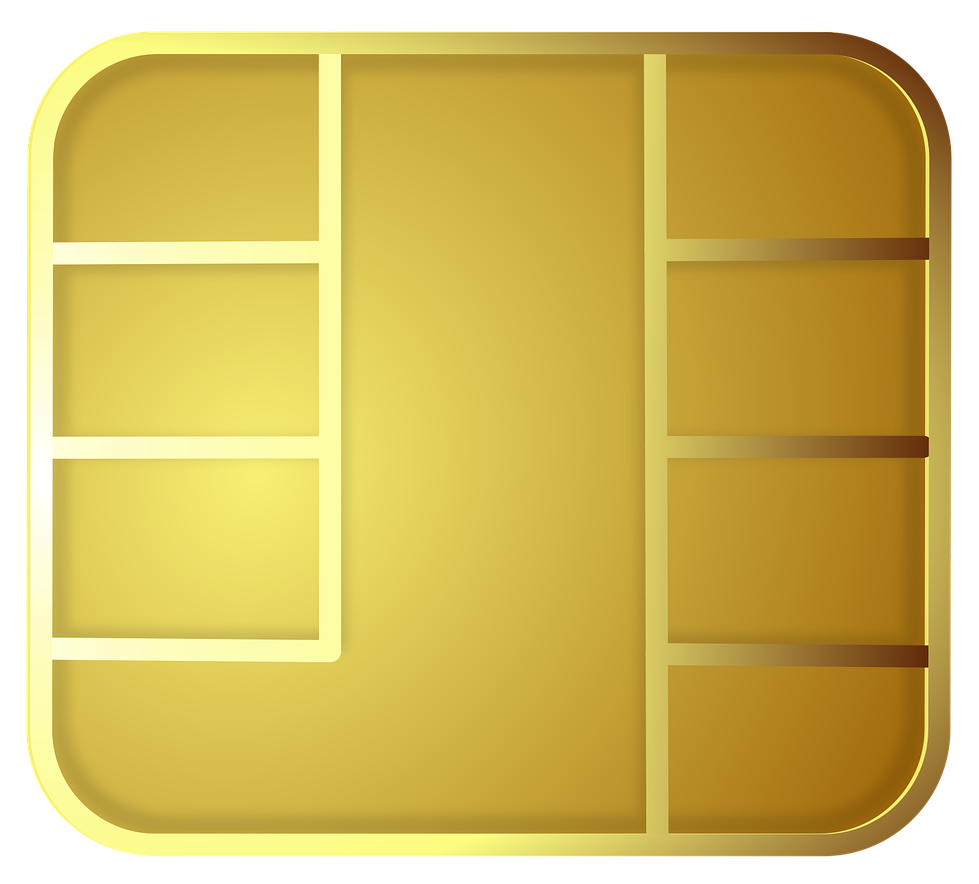
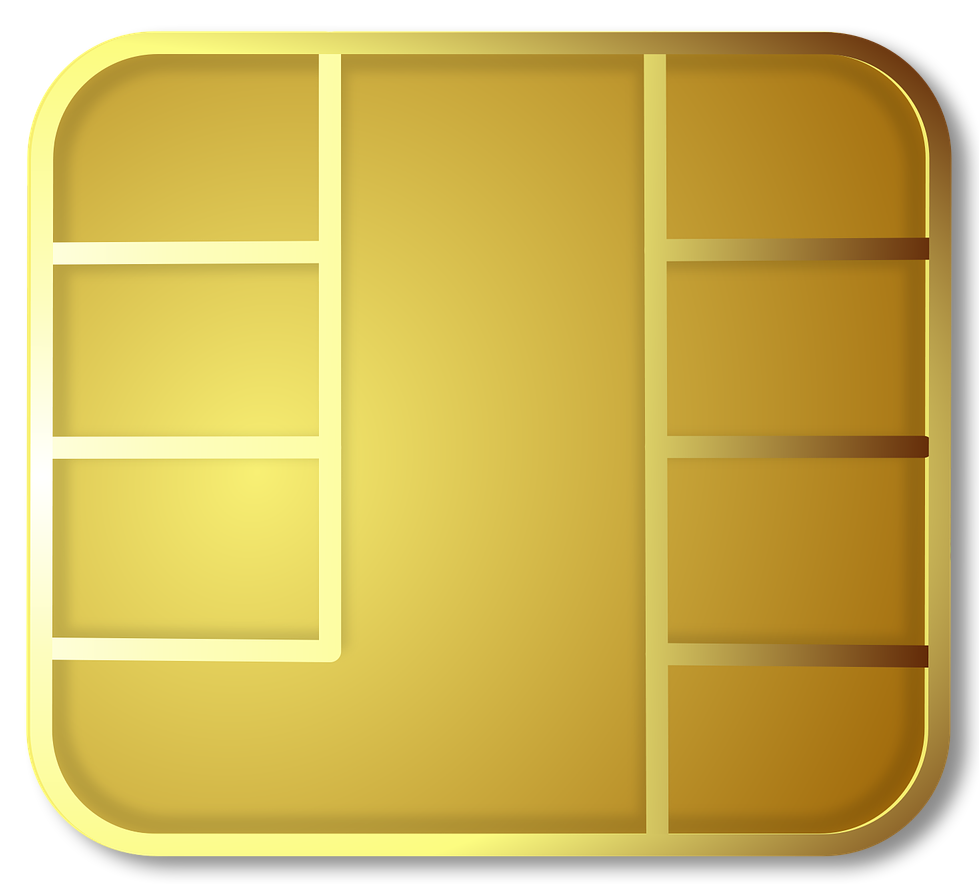
edit info

diff --git a/src/sections/GiftSection.jsx b/src/sections/GiftSection.jsx
@@ -134,9 +134,9 @@ const GiftsSection = () => {
               transition={{ duration: 0.5 }}
               key="transfer"
             >
-              <div className="flex flex-col lg:flex-row justify-center items-stretch gap-8">
+              <div className="flex flex-col lg:flex-row justify-center items-stretch gap-8 text-shadow-lg/20">
                 <GiftCard
-                  bankName="Bank BRI"
+                  bankName="BRI"
                   name="Muhammad Ihsan"
                   number="184501002306532"
                   logo={briLogo}
